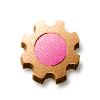
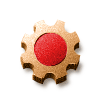
Changed colors for players

Changed region(s): [[0.33, 0.33, 0.69, 0.66]]

diff --git a/game3/SimpleClient.py b/game3/SimpleClient.py
@@ -186,8 +186,8 @@ l_playerColors = [
                 (0,0,0), #Black
                 (20,200,45), #Green
                 (220,220,0), #Yellow
-                (255,110,130), #Pink
-                (0,0,25), #Dark Blue
+                (220,0,0), #Red
+                (0,0,100), #Dark Blue
                 (255,255,255), #White
                 (220,110,0), #Orange
                 (110,55,0) #Brown
